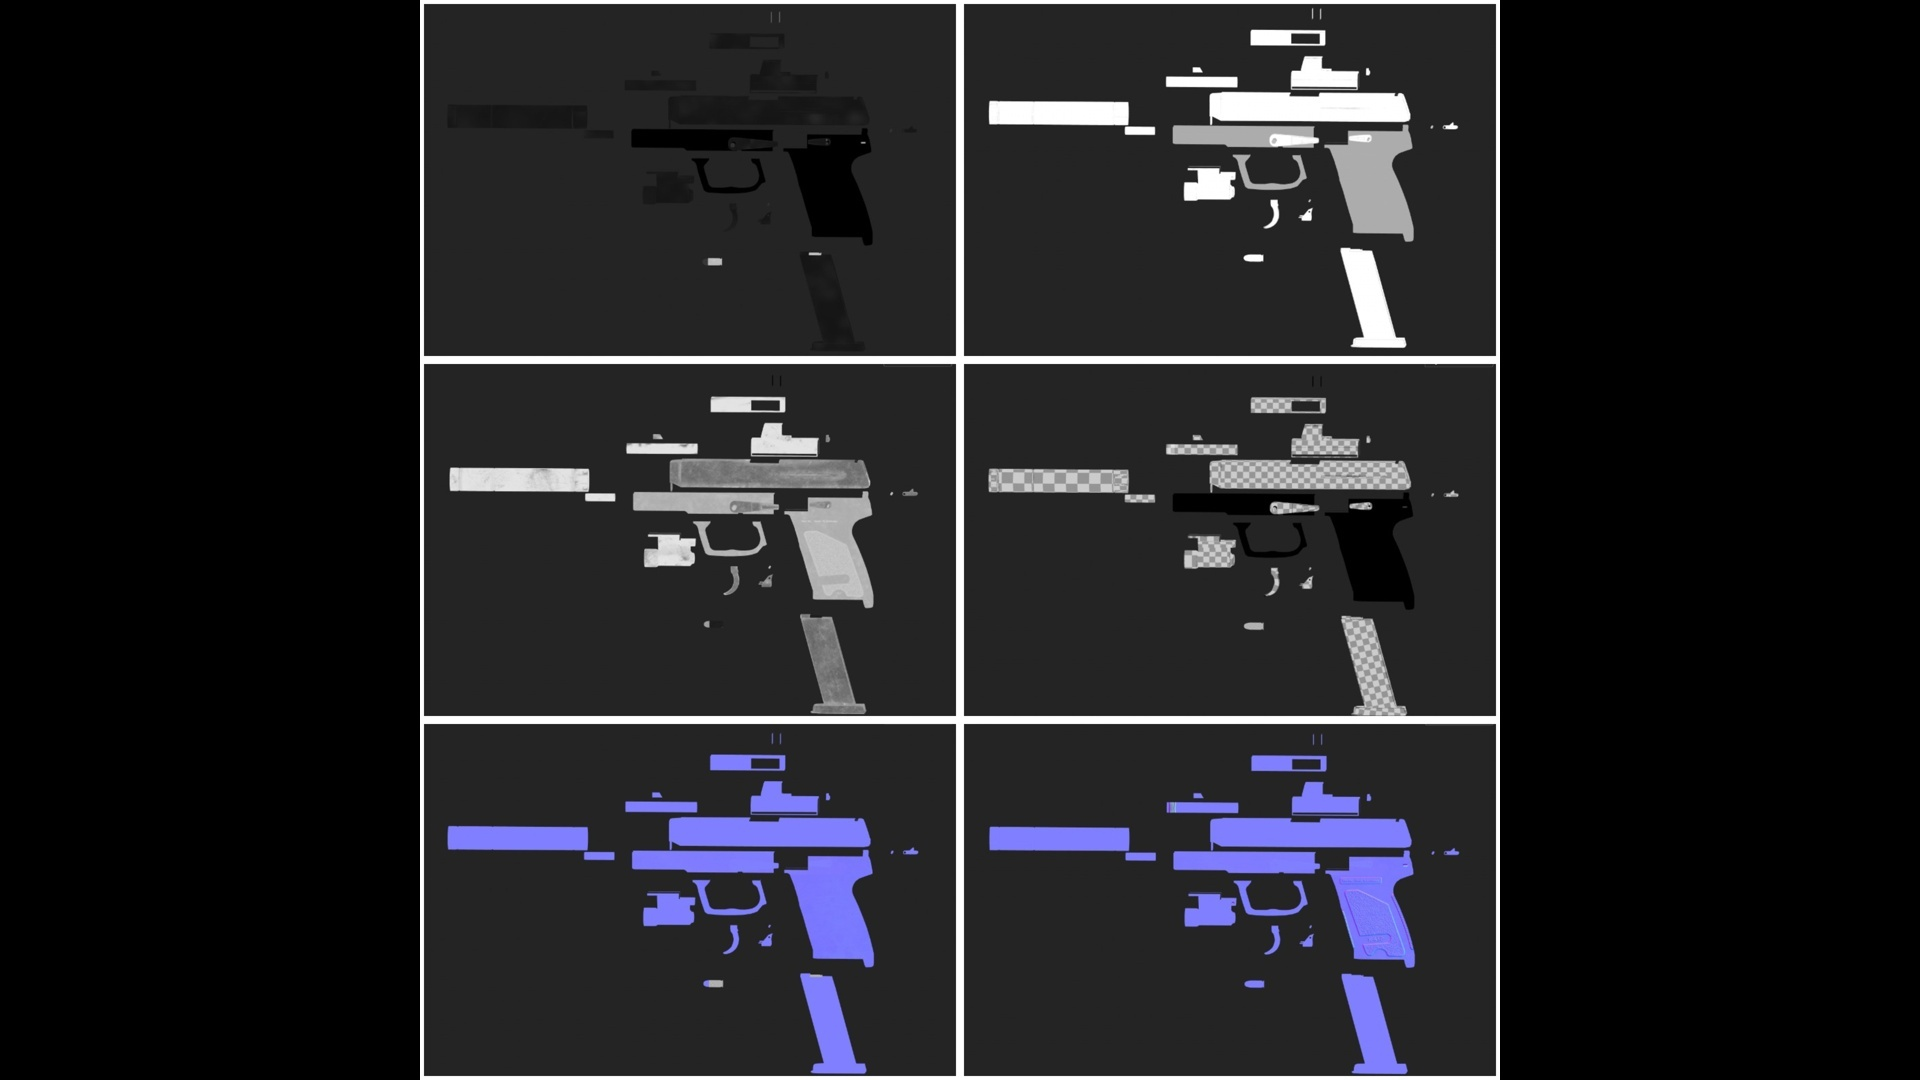
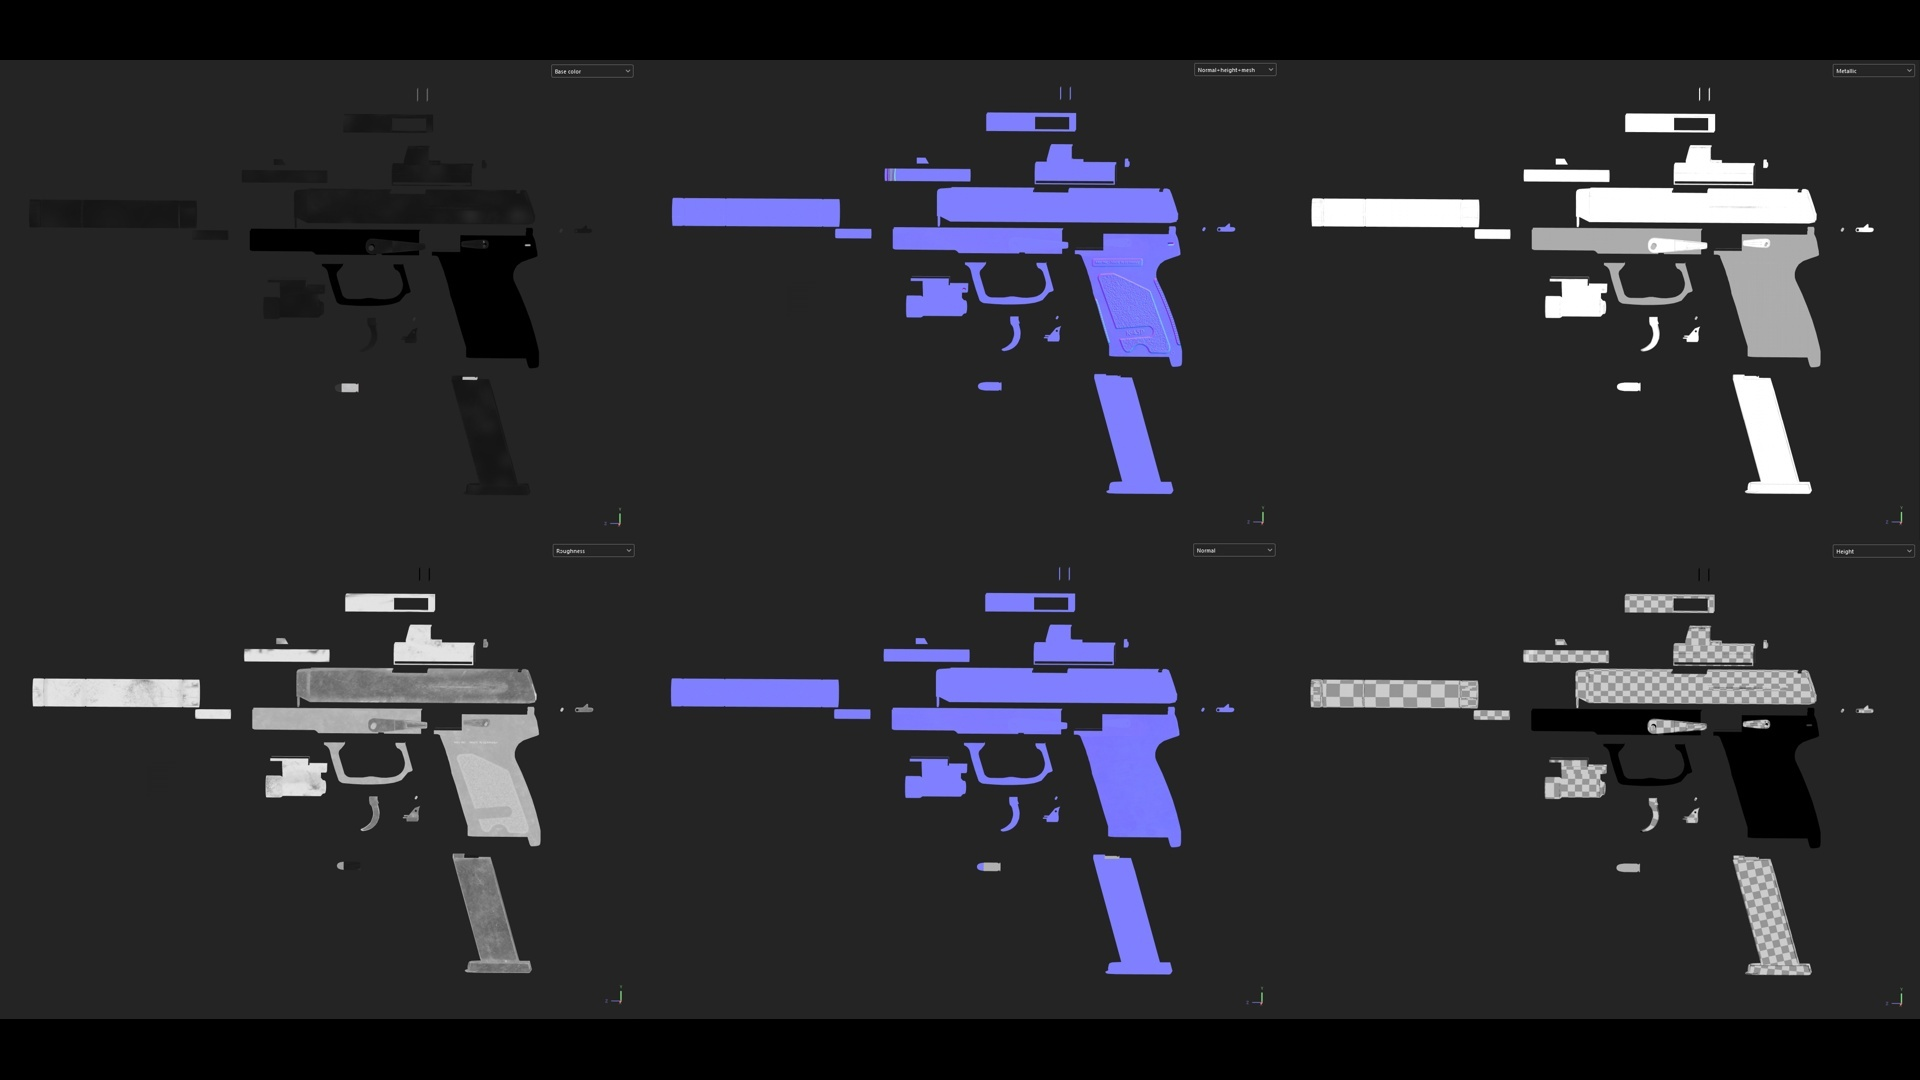
Changed some images

diff --git a/src/components/portfolio_components/styles/FeaturedPanel.css b/src/components/portfolio_components/styles/FeaturedPanel.css
@@ -224,7 +224,6 @@
   /* Truncate long descriptions to 3 lines */
   display: -webkit-box;
   -webkit-box-orient: vertical;
-  -webkit-line-clamp: 3;
   overflow: hidden;
 }
 
@@ -305,7 +304,6 @@
   .featured-desc {
     font-size: 13px;
     margin-bottom: 14px;
-    -webkit-line-clamp: 2;
   }
 
   .featured-cta {
